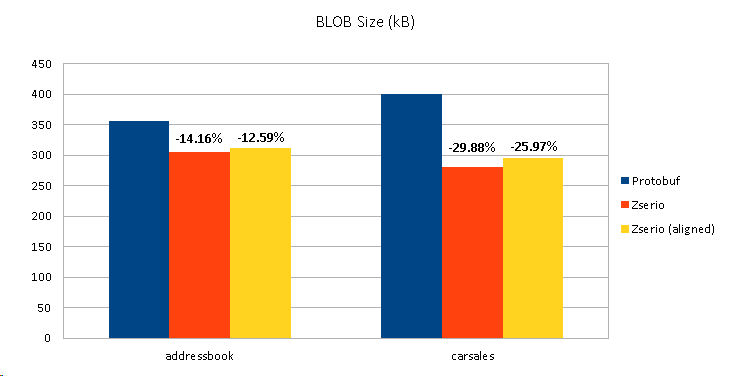
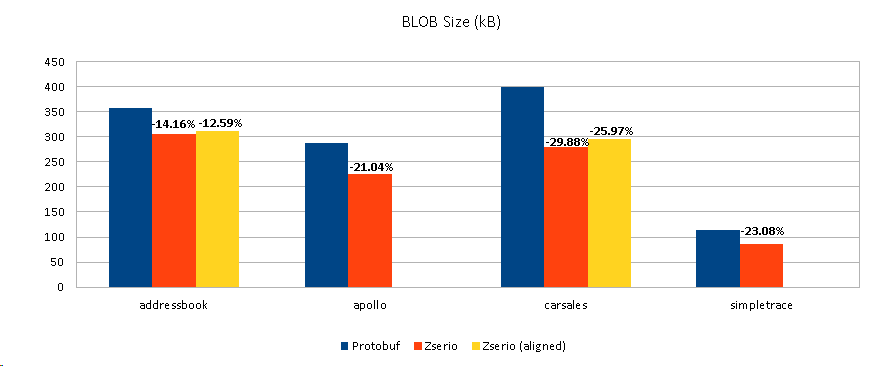
Add new apollo and simpletrace benchmarks

diff --git a/README.md b/README.md
@@ -57,29 +57,40 @@ size are reported. BLOB size after zip compression is reported as well.
 ### Protobuf 3.21.12
 
 [addressbook.proto]: https://github.com/ndsev/zserio-protobuf-benchmarks/blob/master/benchmarks/addressbook/addressbook.proto
+[apollo.proto]: https://github.com/ndsev/zserio-protobuf-benchmarks/blob/master/benchmarks/apollo/apollo.proto
 [carsales.proto]: https://github.com/ndsev/zserio-protobuf-benchmarks/blob/master/benchmarks/carsales/carsales.proto
+[simpletrace.proto]: https://github.com/ndsev/zserio-protobuf-benchmarks/blob/master/benchmarks/simpletrace/simpletrace.proto
 
 [addressbook.json]: https://github.com/ndsev/zserio-datasets/blob/master/addressbook/addressbook.json
+[apollo.proto.json]: https://github.com/ndsev/zserio-datasets/blob/master/apollo/apollo.proto.json
 [carsales.json]: https://github.com/ndsev/zserio-datasets/blob/master/carsales/carsales.json
+[prague-groebenzell.json]: https://github.com/ndsev/zserio-datasets/blob/master/simpletrace/prague-groebenzell.json
 
-| Benchmark              | Dataset                | Target                 |      Time | Blob Size | Zip Size |
-| ---------------------- | ---------------------- | ---------------------- | --------- | --------- | -------- |
-| [addressbook.proto]    | [addressbook.json]     | C++ (linux64-gcc)      |   1.757ms | 356.292kB |    193kB |
-| [carsales.proto]       | [carsales.json]        | C++ (linux64-gcc)      |   2.033ms | 399.779kB |    242kB |
+| Benchmark            | Dataset                   | Target               |      Time | Blob Size | Zip Size |
+| -------------------- | ------------------------- | -------------------- | --------- | --------- | -------- |
+| [addressbook.proto]  | [addressbook.json]        | C++ (linux64-gcc)    |   1.731ms | 356.292kB |    193kB |
+| [apollo.proto]       | [apollo.proto.json]       | C++ (linux64-gcc)    |   0.641ms | 286.863kB |    136kB |
+| [carsales.proto]     | [carsales.json]           | C++ (linux64-gcc)    |   2.053ms | 399.779kB |    242kB |
+| [simpletrace.proto]  | [prague-groebenzell.json] | C++ (linux64-gcc)    |   0.386ms | 113.152kB |     54kB |
 
 ### Zserio 2.10
 
 [addressbook.zs]: https://github.com/ndsev/zserio/blob/master/benchmarks/addressbook/addressbook.zs
 [addressbook_align.zs]: https://github.com/ndsev/zserio/blob/master/benchmarks/addressbook/addressbook_align.zs
+[apollo.zs]: https://github.com/ndsev/zserio/blob/master/benchmarks/apollo/apollo.zs
+[apollo.zs.json]: https://github.com/ndsev/zserio-datasets/blob/master/apollo/apollo.zs.json
 [carsales.zs]: https://github.com/ndsev/zserio/blob/master/benchmarks/carsales/carsales.zs
 [carsales_align.zs]: https://github.com/ndsev/zserio/blob/master/benchmarks/carsales/carsales_align.zs
+[simpletrace.zs]: https://github.com/ndsev/zserio/blob/master/benchmarks/simpletrace/simpletrace.zs
 
-| Benchmark              | Dataset                | Target                 |      Time | Blob Size | Zip Size |
-| ---------------------- | ---------------------- | ---------------------- | --------- | --------- | -------- |
-| [addressbook.zs]       | [addressbook.json]     | C++ (linux64-gcc)      |   1.444ms | 305.838kB |    222kB |
-| [addressbook_align.zs] | [addressbook.json]     | C++ (linux64-gcc)      |   0.802ms | 311.424kB |    177kB |
-| [carsales.zs]          | [carsales.json]        | C++ (linux64-gcc)      |   1.453ms | 280.340kB |    259kB |
-| [carsales_align.zs]    | [carsales.json]        | C++ (linux64-gcc)      |   0.823ms | 295.965kB |    205kB |
+| Benchmark              | Dataset                   | Target              |      Time | Blob Size | Zip Size |
+| ---------------------- | ------------------------- | ------------------- | --------- | --------- | -------- |
+| [addressbook.zs]       | [addressbook.json]        | C++ (linux64-gcc)   |   1.478ms | 305.838kB |    222kB |
+| [addressbook_align.zs] | [addressbook.json]        | C++ (linux64-gcc)   |   0.844ms | 311.424kB |    177kB |
+| [apollo.zs]            | [apollo.zs.json]          | C++ (linux64-gcc)   |   0.244ms | 226.507kB |    144kB |
+| [carsales.zs]          | [carsales.json]           | C++ (linux64-gcc)   |   1.374ms | 280.340kB |    259kB |
+| [carsales_align.zs]    | [carsales.json]           | C++ (linux64-gcc)   |   0.925ms | 295.965kB |    205kB |
+| [simpletrace.zs]       | [prague-groebenzell.json] | C++ (linux64-gcc)   |   0.221ms |  87.042kB |     66kB |
 
 ### Time Comparison
 
